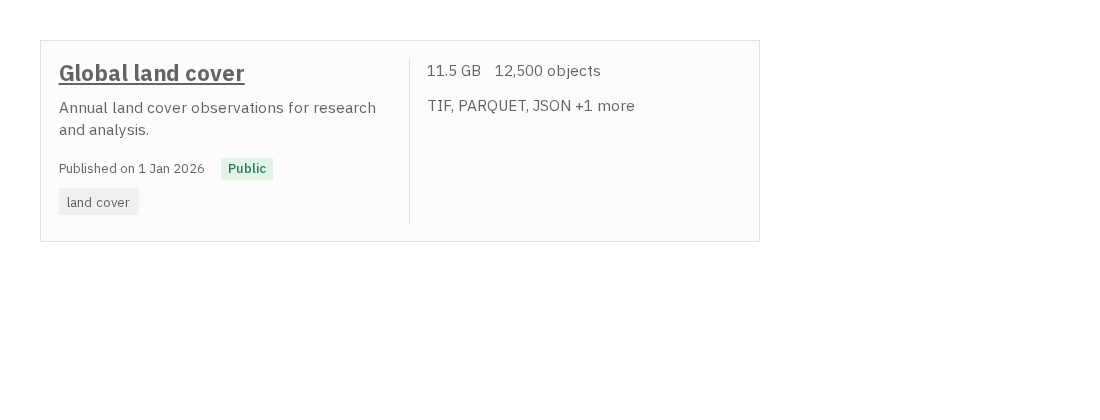
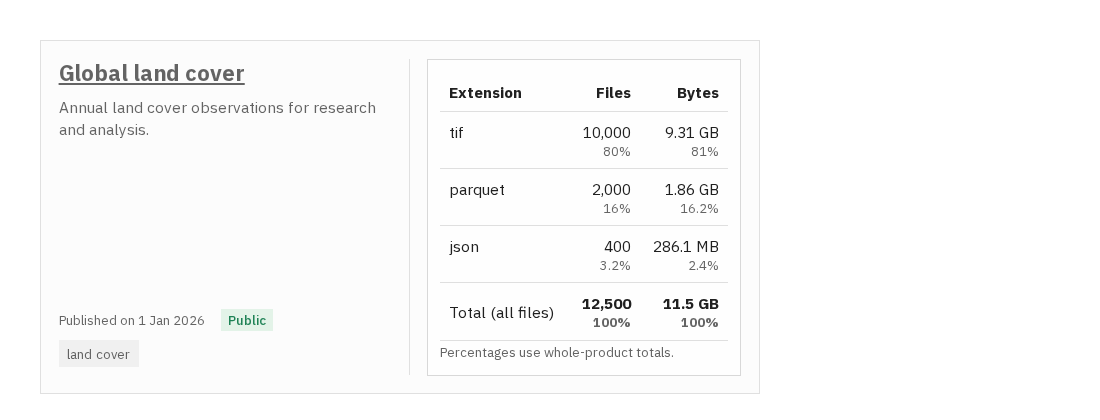
feat: use the shared catalog table in product list cards
Keep the summary table in the right half of the list item and omit the split entirely for entries without displayable statistics. Add per-extension byte fixtures and refresh the screenshot for lowercase extensions, counts, byte sizes, and percentage shares.

diff --git a/src/components/features/products/ProductListItem.tsx b/src/components/features/products/ProductListItem.tsx
@@ -3,7 +3,7 @@
 import Link from "next/link";
 import type { Product } from "@/types";
 import type { CatalogEntry } from "@/types/catalog";
-import { ProductCatalogStats } from "./ProductCatalogStats";
+import { hasCatalogStats, ProductCatalogStats } from "./ProductCatalogStats";
 import { DateText } from "@/components/display";
 import { Box, Text, Badge, Heading } from "@radix-ui/themes";
 import { TagList } from "./TagList";
@@ -30,6 +30,7 @@ export function ProductListItem({
 }: ProductListItemProps) {
   const visibility =
     VISIBILITY_CONFIG[product.visibility] || VISIBILITY_CONFIG.restricted;
+  const showCatalog = hasCatalogStats(catalogEntry);
 
   return (
     <Box
@@ -37,7 +38,7 @@ export function ProductListItem({
       data-selected={isSelected}
       aria-current={isSelected ? "page" : undefined}
     >
-      <article className={catalogEntry ? styles.splitCard : undefined}>
+      <article className={showCatalog ? styles.splitCard : undefined}>
         <div className={styles.productDetails}>
           <Link href={productUrl(product.account_id, product.product_id)}>
             <Heading size="5" weight="bold" color="gray" mb="2">
@@ -84,7 +85,7 @@ export function ProductListItem({
               <TagList tags={product.metadata.tags} />
             )}
         </div>
-        {catalogEntry && (
+        {showCatalog && (
           <div className={styles.catalogSummary}>
             <ProductCatalogStats entry={catalogEntry} />
           </div>

diff --git a/src/components/features/products/ProductListItem.stories.tsx b/src/components/features/products/ProductListItem.stories.tsx
@@ -33,6 +33,7 @@ export const WithCatalog: Story = {
       total_bytes: 12345678900,
       object_count: 12500,
       exts: { tif: 10000, parquet: 2000, json: 400, csv: 100 },
+      ext_bytes: { tif: 10000000000, parquet: 2000000000, json: 300000000, csv: 45678900 },
     },
   },
 };
@@ -49,6 +50,9 @@ export const LongDescription: Story = {
 };
 
 export const WithoutCatalog: Story = {};
+export const WithoutStatistics: Story = {
+  args: { catalogEntry: { account_id: "example", product_id: "land-cover" } },
+};
 export const Mobile: Story = {
   ...WithCatalog,
   globals: { viewport: { value: "mobile1", isRotated: false } },
